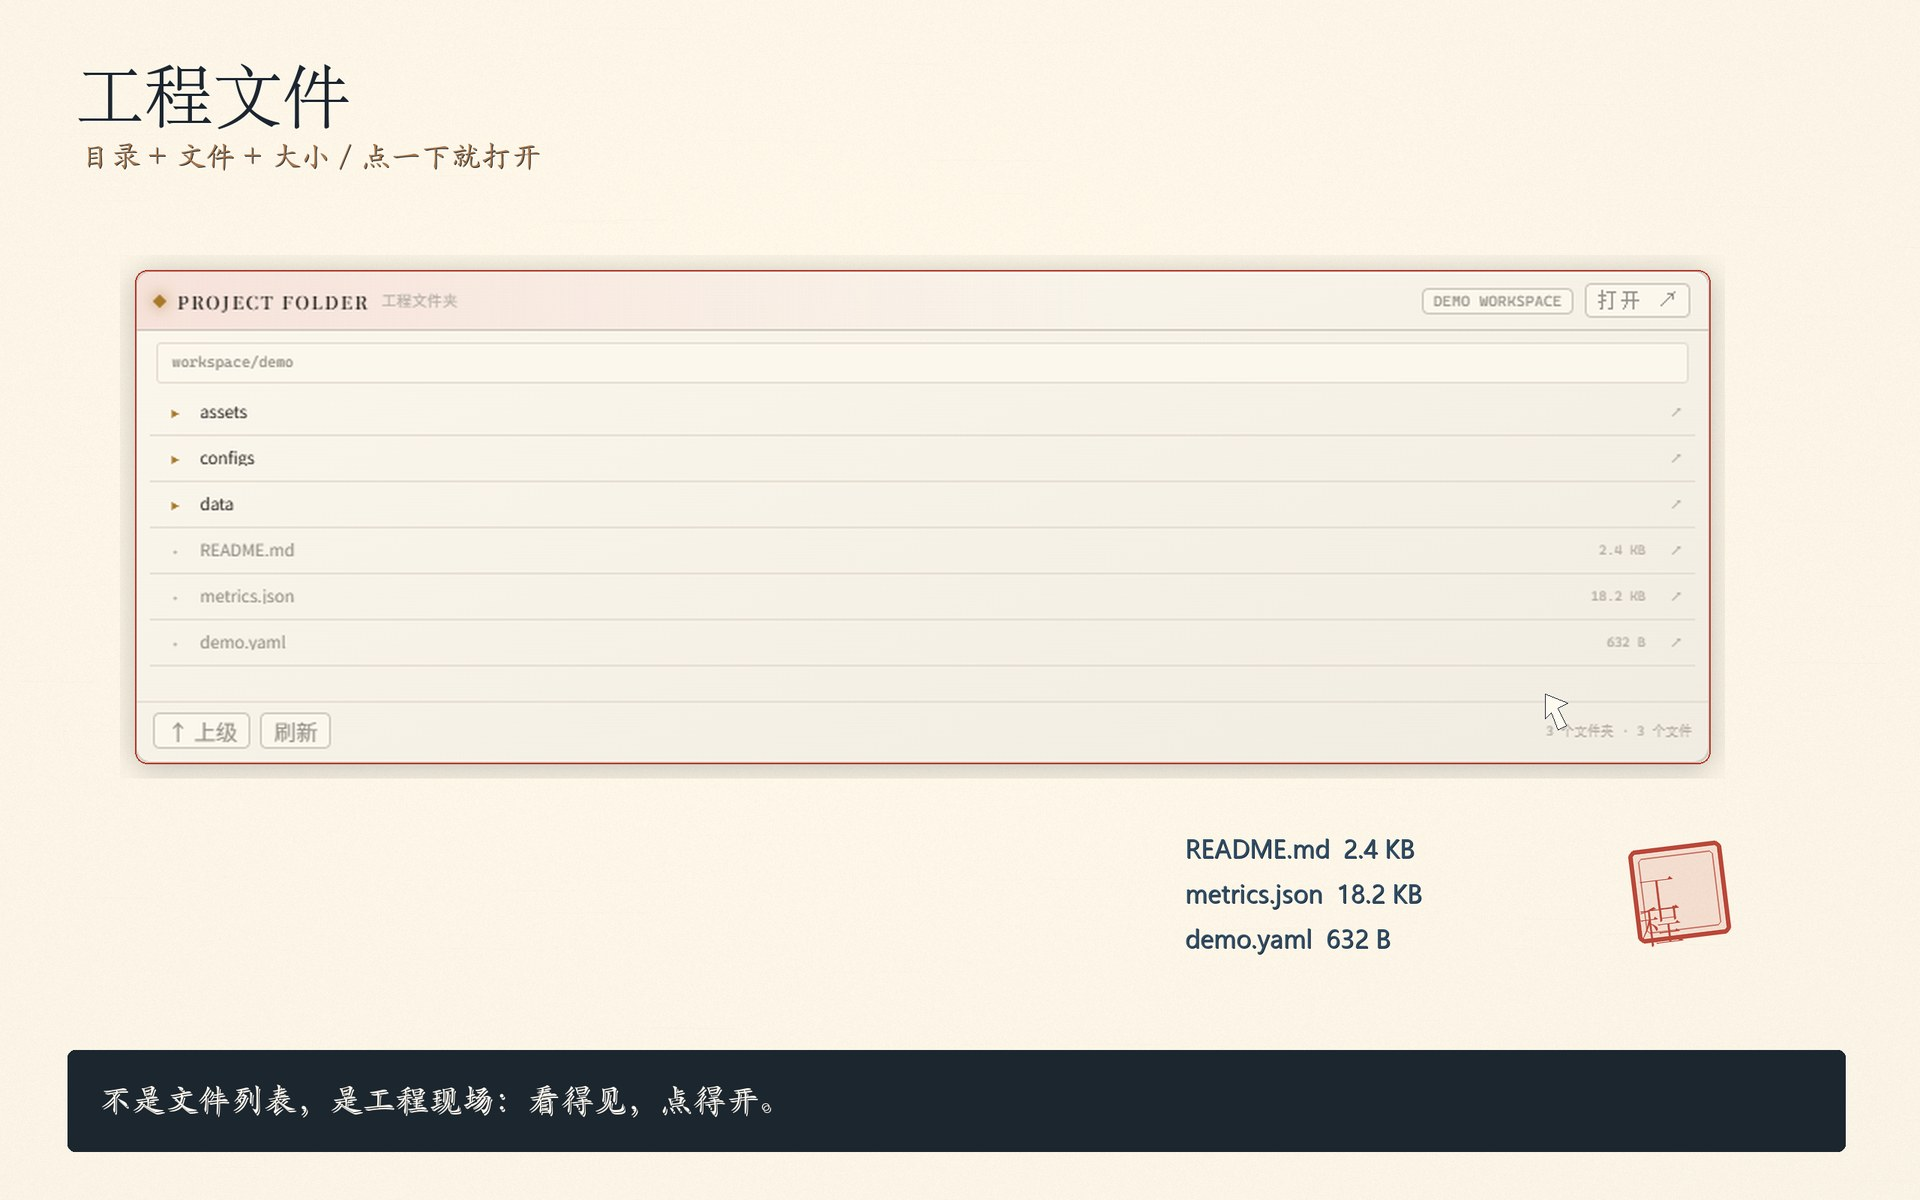
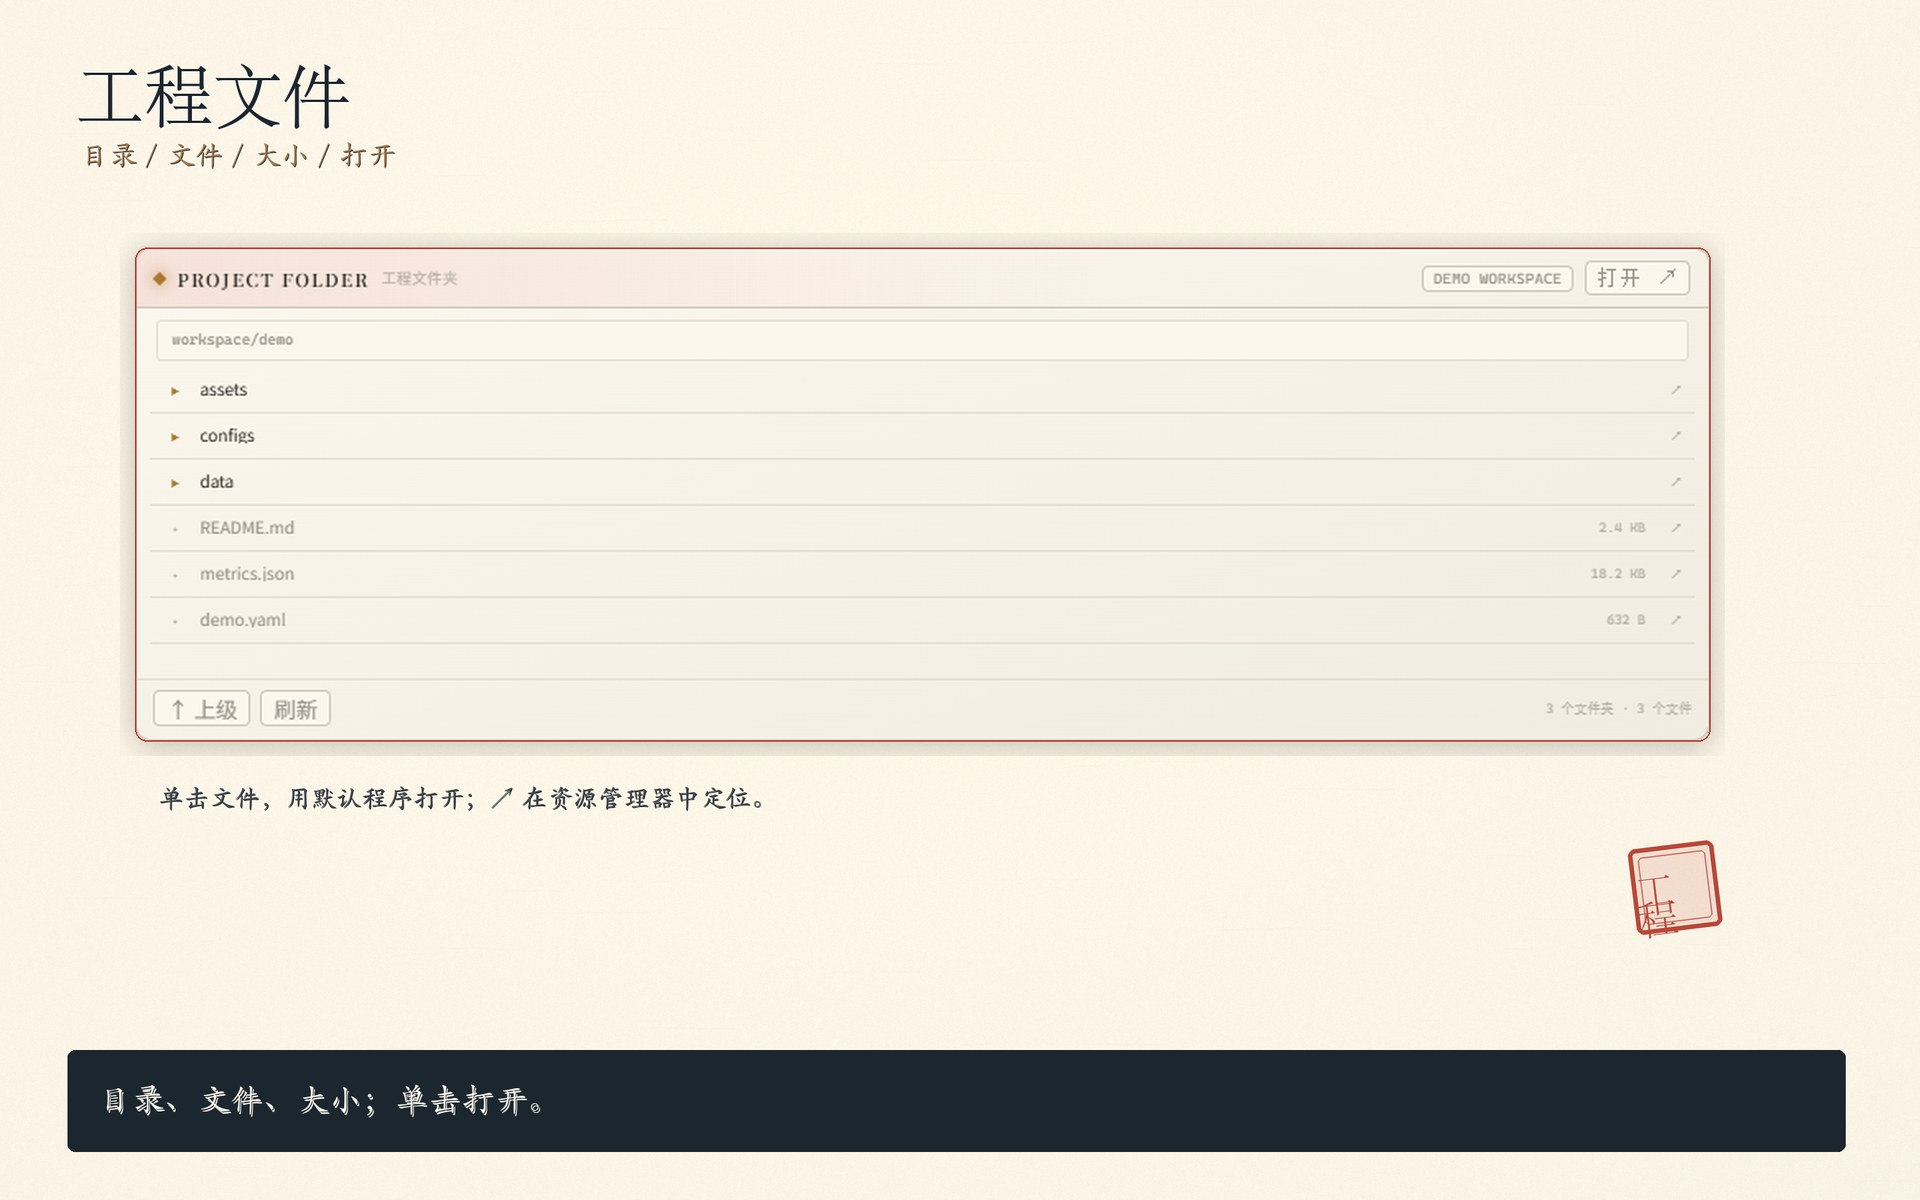
docs: simplify promo copy and visuals

diff --git a/docs/index.html b/docs/index.html
@@ -3,10 +3,10 @@
 <head>
 <meta charset="utf-8">
 <meta name="viewport" content="width=device-width, initial-scale=1">
-<title>DSH Mission Control · 国风开源性能面板</title>
-<meta name="description" content="Mission Control：DeepSeek Harness 的本机优先性能面板。真实硬件、任务条、工程文件追踪，loopback only，MIT 开源。">
+<title>DSH 性能面板 · 本机硬件、任务与工程文件</title>
+<meta name="description" content="Mission Control：DeepSeek Harness 的本机性能面板。硬件、任务条、工程文件同屏，loopback only，MIT 开源。">
 <meta property="og:title" content="DSH Mission Control · 国风开源性能面板">
-<meta property="og:description" content="把算力写进一页宣纸。真实硬件、任务条、工程文件追踪，loopback only。">
+<meta property="og:description" content="DSH 性能面板：硬件、任务条、工程文件同屏，loopback only。">
 <meta property="og:image" content="showcase/og.jpg">
 <meta property="og:type" content="website">
 <style>
@@ -88,8 +88,8 @@ footer{border-top:1px solid rgba(28,42,53,.14);padding:26px 0;color:var(--muted)
 <section class="hero">
   <div>
     <div class="kicker">DSH · LOCAL-FIRST · OPEN SOURCE</div>
-    <h1>把算力<br>写进一页<em>宣纸</em></h1>
-    <p class="lede">Mission Control 是 DeepSeek Harness 的本机性能面板：真实硬件、任务条、工程文件追踪，放在同一张纸墨长卷里。loopback only，不上传，MIT 开源。</p>
+    <h1>DSH<br><em>性能面板</em></h1>
+    <p class="lede">Mission Control 是 DeepSeek Harness 的本机性能面板：硬件、任务条和工程文件放在同一屏。只监听本机回环，不上传，MIT 开源。</p>
     <div class="actions">
       <a class="btn primary" href="https://github.com/HDMcat/dsh-mission-control">GitHub 仓库 ↗</a>
       <a class="btn" href="https://github.com/HDMcat/dsh-mission-control/releases">下载 Release</a>
@@ -106,12 +106,12 @@ footer{border-top:1px solid rgba(28,42,53,.14);padding:26px 0;color:var(--muted)
 
 <section id="features" class="cards">
   <div class="card"><div class="tag">01 / SILICON</div><h3>硬件状态</h3><p>GPU / VRAM / CPU / RAM 四表盘，HARDWARE 表枚举 C–H 全部固定磁盘。传感器不存在就显示 N/A，不伪造读数。</p></div>
-  <div class="card"><div class="tag">02 / WORKFLOW</div><h3>任务条</h3><p>TASK BAR 把工具调用、上下文压力、文件产出放到同一条时间轴；不是日志堆叠，是可回看的因果链。</p></div>
+  <div class="card"><div class="tag">02 / WORKFLOW</div><h3>任务条</h3><p>左侧记录工具调用、上下文和文件事件；右侧雷达同步显示目录变化。</p></div>
   <div class="card"><div class="tag">03 / FILES</div><h3>工程文件</h3><p>PROJECT FOLDER 同时列出目录和文件，显示大小；单击文件用默认程序打开，↗ 在资源管理器中定位。</p></div>
 </section>
 
 <section id="gallery" class="gallery">
-  <h2 class="section-title">真实的界面，不是概念图</h2>
+  <h2 class="section-title">真实界面截图</h2>
   <p class="section-sub">2560×1600 实拍 · DOM 脱敏 · 无真实会话/路径</p>
   <div class="shots">
     <div class="shot"><img src="showcase/overview.jpg" alt="2560x1600 full HUD"><div class="cap">FULL HUD · 0.618 / 0.382 · TASK BAR + RADAR + HARDWARE + PROJECT FOLDER</div></div>
@@ -160,8 +160,8 @@ https://github.com/HDMcat/dsh-mission-control
 
 <div class="rule"></div>
 <section class="cta">
-  <h2>给你的 DeepSeek<br>一张自己的工程长卷</h2>
-  <p>MIT · loopback only · DSH plugin · 国风纸墨</p>
+  <h2>把性能面板<br>装进你的 DSH</h2>
+  <p>MIT · loopback only · DSH plugin</p>
   <a class="btn primary" href="https://github.com/HDMcat/dsh-mission-control">打开 GitHub ↗</a>
 </section>
 </main>
